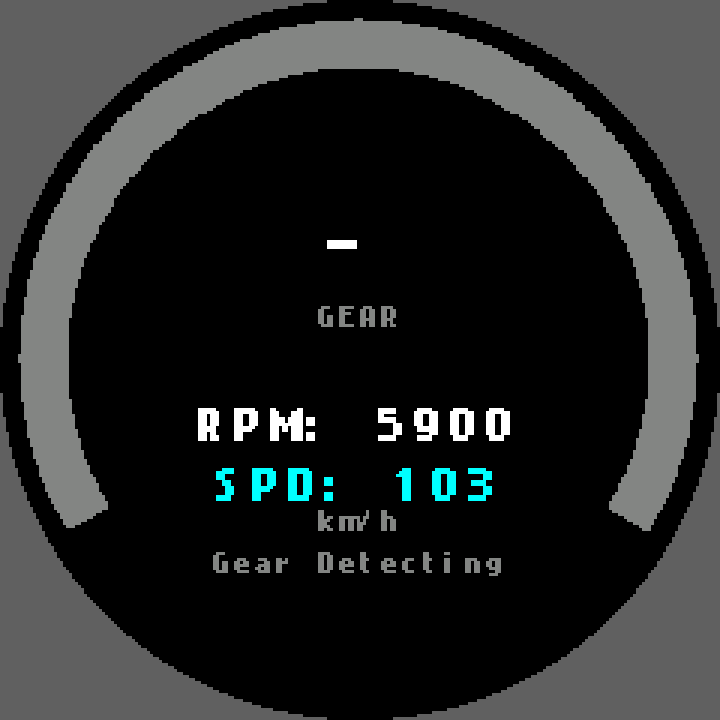
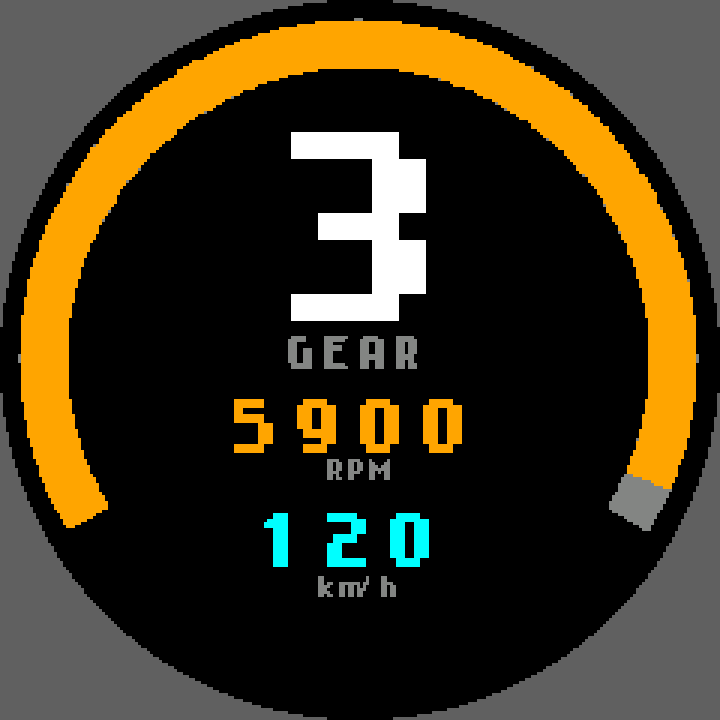
larger text - shift

Changed region(s): [[0.0306, 0.0306, 0.9778, 0.7333], [0.275, 0.55, 0.7333, 0.825], [0.3972, 0.1833, 0.6111, 0.5194]]

diff --git a/src/GaugeRenderer.cpp b/src/GaugeRenderer.cpp
@@ -210,6 +210,59 @@ void drawCenteredTextScaled(UWORD y, const char* text, sFONT* font, uint8_t scal
 }
 
 /**
+ * @brief Centre a scaled bitmap string by its lit pixels, not its fixed font cell.
+ *
+ * Large single glyphs (notably the shift gear) can have substantial blank space
+ * within their font cell, which makes ordinary fixed-cell centring look offset.
+ */
+void drawCenteredTextScaledByInk(UWORD y, const char* text, sFONT* font, uint8_t scale, UWORD fg, UWORD bg) {
+  if (text == NULL || font == NULL || scale == 0) {
+    return;
+  }
+
+  const uint16_t rowBytes = font->Width / 8 + (font->Width % 8 ? 1 : 0);
+  int minInkX = 32767;
+  int maxInkX = -1;
+  for (size_t character = 0; text[character] != '\0'; character++) {
+    const uint32_t charOffset = (text[character] - ' ') * font->Height * rowBytes;
+    const unsigned char* glyph = &font->table[charOffset];
+    for (uint16_t row = 0; row < font->Height; row++) {
+      for (uint16_t col = 0; col < font->Width; col++) {
+        if (glyph[(row * rowBytes) + (col / 8)] & (0x80 >> (col % 8))) {
+          const int inkX = (int)(character * font->Width) + col;
+          if (inkX < minInkX) minInkX = inkX;
+          if (inkX > maxInkX) maxInkX = inkX;
+        }
+      }
+    }
+  }
+
+  if (maxInkX < minInkX) {
+    return;
+  }
+
+  const int startX = (240 - (maxInkX - minInkX + 1) * scale) / 2 - minInkX * scale;
+  int charX = startX;
+  while (*text != '\0') {
+    const uint32_t charOffset = (*text - ' ') * font->Height * rowBytes;
+    const unsigned char* glyph = &font->table[charOffset];
+    for (uint16_t row = 0; row < font->Height; row++) {
+      for (uint16_t col = 0; col < font->Width; col++) {
+        const UWORD color = (glyph[(row * rowBytes) + (col / 8)] & (0x80 >> (col % 8))) ? fg : bg;
+        for (uint8_t sy = 0; sy < scale; sy++) {
+          for (uint8_t sx = 0; sx < scale; sx++) {
+            Paint_SetPixel((UWORD)(charX + col * scale + sx),
+                           (UWORD)(y + row * scale + sy), color);
+          }
+        }
+      }
+    }
+    charX += font->Width * scale;
+    text++;
+  }
+}
+
+/**
  * @brief Displays connection/fault warnings at the top/bottom if OBD bus drops out.
  */
 void drawStatusIfNeeded(UWORD y, UWORD color) {
@@ -360,28 +413,16 @@ void renderShiftLightGauge() {
   } else {
     snprintf(buffer, sizeof(buffer), "-");
   }
-  drawCenteredTextFixed(72, buffer, &Font_nokia_20, WHITE, BLACK);
-  drawCenteredTextFixed(102, "GEAR", &Font_nokia_8, GRAY, BLACK);
+  drawCenteredTextScaledByInk(38, buffer, &Font_nokia_24, 3, WHITE, BLACK);
+  drawCenteredTextFixed(112, "GEAR", &Font_nokia_12, GRAY, BLACK);
 
-  snprintf(buffer, sizeof(buffer), "RPM: %u", (unsigned int)obdValues.rpm);
-  drawCenteredTextFixed(136, buffer, &Font_nokia_12, arcColor, BLACK);
+  snprintf(buffer, sizeof(buffer), "%u", (unsigned int)obdValues.rpm);
+  drawCenteredTextFixed(132, buffer, &Font_nokia_20, arcColor, BLACK);
+  drawCenteredTextFixed(153, "RPM", &Font_nokia_8, GRAY, BLACK);
 
-  snprintf(buffer, sizeof(buffer), "SPD: %u", (unsigned int)obdValues.vehicle_speed_kmh);
-  drawCenteredTextFixed(156, buffer, &Font_nokia_12, GBLUE, BLACK);
-  drawCenteredTextFixed(170, "km/h", &Font_nokia_8, GRAY, BLACK);
-
-  if (gear > 0 && targetShiftRpm > 0) {
-    snprintf(buffer, sizeof(buffer), "Shift @ %u", (unsigned int)targetShiftRpm);
-    drawCenteredTextFixed(184, buffer, &Font_nokia_8, arcColor, BLACK);
-  } else if (gear == 6) {
-    drawCenteredTextFixed(184, "Top Gear", &Font_nokia_8, GRAY, BLACK);
-  } else if (gear == 0) {
-    drawCenteredTextFixed(184, "Neutral / Clutch", &Font_nokia_8, GRAY, BLACK);
-  } else {
-    drawCenteredTextFixed(184, "Gear Detecting", &Font_nokia_8, GRAY, BLACK);
-  }
-
-  drawStatusIfNeeded(206, GRAY);
+  snprintf(buffer, sizeof(buffer), "%u", (unsigned int)obdValues.vehicle_speed_kmh);
+  drawCenteredTextFixed(170, buffer, &Font_nokia_20, GBLUE, BLACK);
+  drawCenteredTextFixed(192, "km/h", &Font_nokia_8, GRAY, BLACK);
 
   LCD_1IN28_Display(BlackImage);
 }
